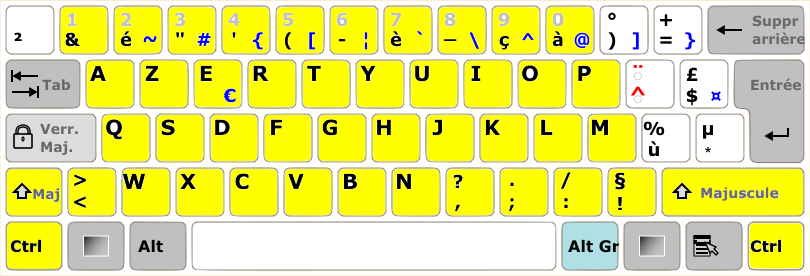
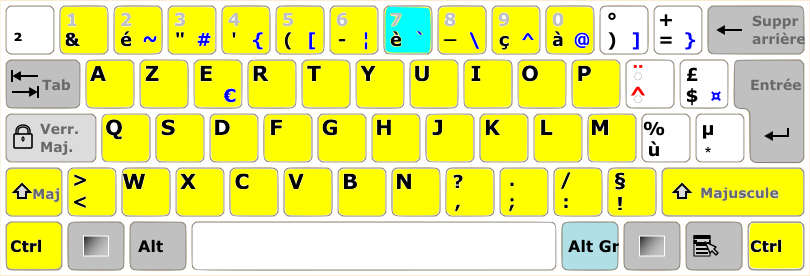
SHows anchor key on azerty keyboard

Changed region(s): [[0.463, 0.0, 0.5556, 0.2029]]

diff --git a/README.md b/README.md
@@ -50,10 +50,10 @@ This will let you press the keys in the order that you want, and create a new ke
 - [DONE] confirm that tool works for stereo files too
 - [DONE] add clear-cache command
 - [DONE] update azerty to be anchored at certain location
-- update azerty keyboard to show the anchor key
+- [DONE] update azerty keyboard to show the anchor key
 - make installable through pypi
-- Fix the azerty bow sample to be at a c6
-- allow non-anchor note to be passed in but give a warning
+- Fix the azerty bowl sample to be at a c6
+- allow non-anchor note to be passed in + write note anchor in UI
 - autodetect input file frequency and pitch shift it to the needed start frequency?
 
 ## Attributions
